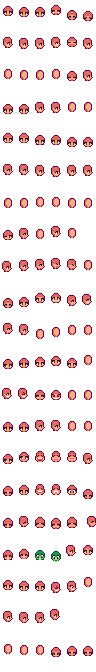
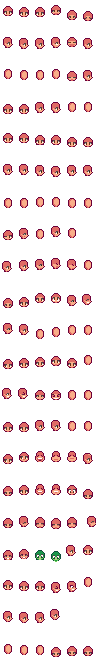
Add initial lash/eyebrowes(?) colour changing.

diff --git a/Dynamic Naked/UI/BodyModifier.cs b/Dynamic Naked/UI/BodyModifier.cs
@@ -17,7 +17,7 @@ namespace DynamicBodies.UI
 {
 	internal class BodyModifier : IClickableMenu
 	{
-
+		public bool isPage = false;
 		public int cost = 0;
 		private bool isWizardSubmenu = false;
 
@@ -33,6 +33,7 @@ namespace DynamicBodies.UI
 		public const int region_eyeSwatch1 = 701, region_eyeSwatch2 = 702, region_eyeSwatch3 = 703, region_eyeSwatch4 = 704;
 		public const int region_hairSwatch1 = 705, region_hairSwatch2 = 706, region_hairSwatch3 = 707, region_hairSwatch4 = 708;
 		public const int region_hairDarkSwatch1 = 709, region_hairDarkSwatch2 = 710, region_hairDarkSwatch3 = 711, region_hairDarkSwatch4 = 712;
+		public const int region_lashSwatch1 = 713, region_lashSwatch2 = 714, region_lashSwatch3 = 715, region_lashSwatch4 = 716;
 
 		public const int region_nameBox = 536;
 
@@ -102,6 +103,8 @@ namespace DynamicBodies.UI
 		public Color[] hairSwatchColors;
 		private int hairDarkSwatch = 0;
 		public Color[] hairDarkSwatchColors;
+		private int lashSwatch = 0;
+		public Color[] lashSwatchColors;
 
 
 		public BodyModifier(int windowHeight, bool wizardSub = false)
@@ -133,6 +136,15 @@ namespace DynamicBodies.UI
 			else
 			{
 				settingsBefore["DB.darkHair"] = new Color(57, 57, 57).PackedValue.ToString();
+			}
+
+			if (who.modData.ContainsKey("DB.lash"))
+			{
+				settingsBefore["DB.lash"] = who.modData["DB.lash"];
+			}
+			else
+			{
+				settingsBefore["DB.lash"] = new Color(15, 10, 8).PackedValue.ToString();
 			}
 
 			this.accessoryOptions = new List<int> { 0, 1, 2, 3, 4, 5 };
@@ -381,7 +393,14 @@ namespace DynamicBodies.UI
 			}
 			else
 			{
-				this.exitThisMenu(false);
+				if (isPage)
+				{
+					Game1.exitActiveMenu();
+				}
+				else
+				{
+					this.exitThisMenu(false);
+				}
 				Game1.playSound("cancel");
 			}
 		}
@@ -414,7 +433,14 @@ namespace DynamicBodies.UI
 						else
 						{
 							who.Money -= cost;
-							this.exitThisMenu(false);
+							if (isPage)
+							{
+								Game1.exitActiveMenu();
+							}
+							else
+							{
+								this.exitThisMenu(false);
+							}
 							Game1.playSound("purchase");
 						}
 						break;
@@ -705,6 +731,36 @@ namespace DynamicBodies.UI
 					else
 					{
 						pbe.SetModData(who, "DB.darkHair", settingsBefore["DB.darkHair"]);
+					}
+
+					Game1.playSound("purchase");
+				}
+
+				if (name.StartsWith("Lash"))
+				{
+					//Special cases
+					if (lashSwatch == 0 && change < 0)
+					{
+						lashSwatch = lashSwatchColors.Length;
+						change = 0;
+					}
+
+					if (lashSwatch == lashSwatchColors.Length && change > 0)
+					{
+						lashSwatch = change - 1;
+						change = 0;
+					}
+
+					//Other cases
+					lashSwatch += change;
+
+					if (lashSwatch != 0)
+					{
+						pbe.SetModData(who, "DB.lash", lashSwatchColors[lashSwatch - 1].PackedValue.ToString());
+					}
+					else
+					{
+						pbe.SetModData(who, "DB.lash", settingsBefore["DB.lash"]);
 					}
 
 					Game1.playSound("purchase");
@@ -1220,9 +1276,12 @@ namespace DynamicBodies.UI
 		//Draw the menu and its various buttons
 		public override void draw(SpriteBatch b)
 		{
-			bool ignoreTitleSafe = true;
-			Game1.drawDialogueBox(base.xPositionOnScreen, base.yPositionOnScreen, base.width, base.height, speaker: false, drawOnlyBox: true, null, objectDialogueWithPortrait: false, ignoreTitleSafe);
-			//b.Draw(Game1.daybg, new Vector2(this.portraitBox.X, this.portraitBox.Y), Color.White);
+			if (!isPage)
+			{
+				bool ignoreTitleSafe = true;
+				Game1.drawDialogueBox(base.xPositionOnScreen, base.yPositionOnScreen, base.width, base.height, speaker: false, drawOnlyBox: true, null, objectDialogueWithPortrait: false, ignoreTitleSafe);
+				//b.Draw(Game1.daybg, new Vector2(this.portraitBox.X, this.portraitBox.Y), Color.White);
+			}
 			//Draw hospital back
 			b.Draw(UItexture, new Vector2(this.portraitBox.X, this.portraitBox.Y), CharacterBackgroundRect, Color.White, 0f, Vector2.Zero, 4f, SpriteEffects.None, 0.8f);
 			//Draw frame over
@@ -1275,6 +1334,11 @@ namespace DynamicBodies.UI
 				{
 					cswatches = hairDarkSwatchColors;
 					toDraw = hairDarkSwatch;
+				}
+				if (swatch.name.StartsWith("Lash"))
+				{
+					cswatches = lashSwatchColors;
+					toDraw = lashSwatch;
 				}
 
 				if (swatch.name.EndsWith("Left"))

diff --git a/Dynamic Naked/Data/PlayerBaseExtended.cs b/Dynamic Naked/Data/PlayerBaseExtended.cs
@@ -29,6 +29,7 @@ namespace DynamicBodies.Data
         public int shoes { get; set; }
         public Color hair;
         public uint dhair;
+        public uint lash;
         //Draw rendering
         public string sleeveLength { get; set; }
         public string shoeStyle { get; set; }
@@ -88,6 +89,7 @@ namespace DynamicBodies.Data
             shoes = who.shoes.Value;
             hair = who.hairstyleColor.Value;
             dhair = 0;
+            lash = 0;
             sleeveLength = "Normal";
             shoeStyle = "Normal";
 
@@ -134,7 +136,7 @@ namespace DynamicBodies.Data
             for(int i = 0; i < 25; i++)
             {
                 basePalette[i] = defaultColors.Data[i].ToVector4();
-                ModEntry.debugmsg($"Added palette colour {basePalette[i].ToString()}", LogLevel.Debug);
+                //ModEntry.debugmsg($"Added palette colour {basePalette[i].ToString()}", LogLevel.Debug);
             }
             return basePalette;
         }
@@ -151,6 +153,8 @@ namespace DynamicBodies.Data
             bodyHair.SetDefault(who);
             nakedLower.SetDefault(who);
             nakedUpper.SetDefault(who);
+
+            who.modData["DB.lash"] = new Color(15, 10, 8).PackedValue.ToString();
         }
 
         public void SetModData(Farmer who, string key, string value)
@@ -227,6 +231,13 @@ namespace DynamicBodies.Data
             {
                 pbe.dirtyLayers["beard"] = true;
                 pbe.dirtyLayers["bodyHair"] = true;
+            }
+
+            if (who.modData.ContainsKey("DB.lash")){
+                if (who.modData["DB.lash"] != new Color(pbe.paletteCache[17]).PackedValue.ToString())
+                {
+                    pbe.dirtyLayers["eyes"] = true;
+                }
             }
 
             //Check for naked overlay

diff --git a/Dynamic Naked/Patches/FarmerRendererPatched.cs b/Dynamic Naked/Patches/FarmerRendererPatched.cs
@@ -451,8 +451,10 @@ namespace DynamicBodies.Patches
 
         internal static void ExecuteRecolorActionsOnBaseSprite(PlayerBaseExtended pbe, Farmer who)
         {
+            bool updatePalette = false;
             if (pbe.dirtyLayers["sprite"])
             {
+                updatePalette = true;
                 pbe.dirtyLayers["sprite"] = false;
                 if (pbe.dirtyLayers["baseTexture"])
                 {
@@ -474,9 +476,11 @@ namespace DynamicBodies.Patches
                     pbe.dirtyLayers["baseTexture"] = false;
 
                 }
-
-                UpdatePalette(pbe, who);
             }
+
+            updatePalette = updatePalette || pbe.dirtyLayers["eyes"] || pbe.dirtyLayers["skin"] || pbe.dirtyLayers["shoes"] || pbe.dirtyLayers["shirt"];
+
+            if(updatePalette) UpdatePalette(pbe, who);
         }
 
         private static Color changeBrightness(Color c, Color amount, bool lighter = true)
@@ -536,6 +540,16 @@ namespace DynamicBodies.Patches
                 }
                 pbe.paletteCache[18] = lightest_s_color.ToVector4();
                 pbe.paletteCache[19] = darker_s_color.ToVector4();
+            }
+
+            //Allow for ash colours
+            Color lash_color = PlayerBaseExtended.GetColorSetting(who, "lash");
+            if (lash_color.Equals(Color.Transparent))
+            {
+                pbe.paletteCache[17] = new Color(15, 10, 8).ToVector4();
+            } else
+            {
+                pbe.paletteCache[17] = lash_color.ToVector4();
             }
 
         }
